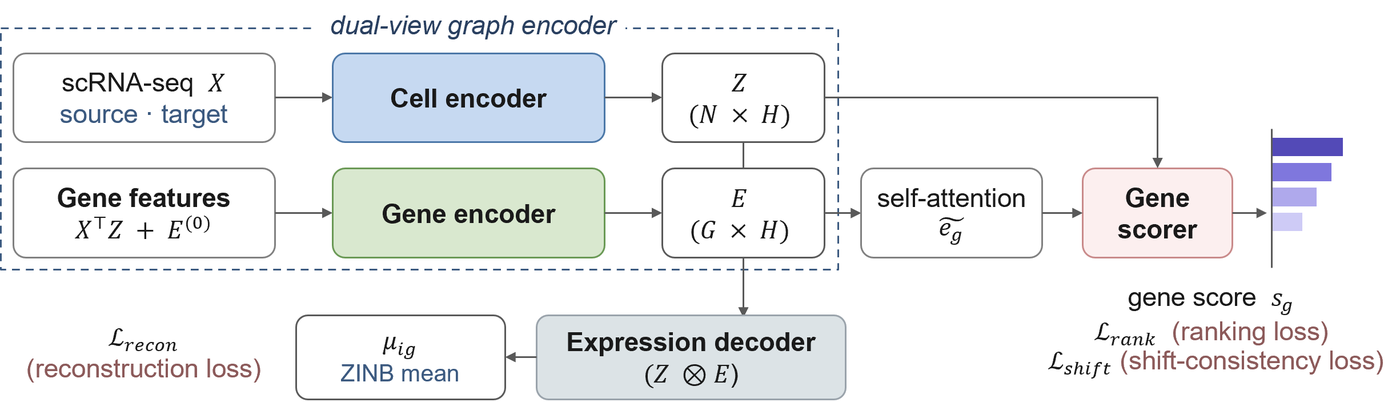
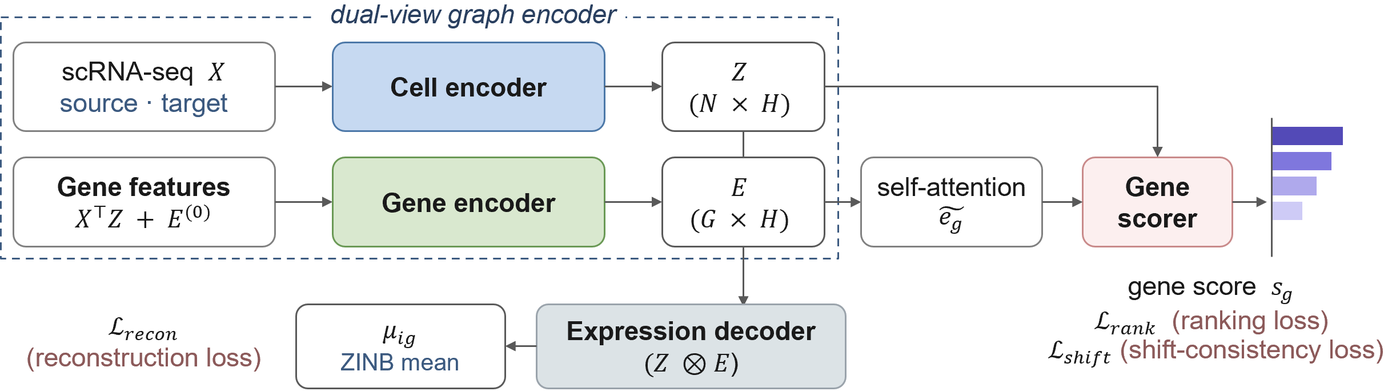
Add portrait, full paper titles, and trim thumbnail whitespace
- Replace the portrait placeholder with a 4:5 head-and-shoulders crop of
  the supplied photo. The source JPEG stays out of the repo.
- Thumbnails: trim each figure's own white border, then drop the fixed
  16/7 box so the card no longer letterboxes them. Cards now size to the
  figure, which is where most of the white was coming from.
- Entry and detail titles carry the full paper title. Titles run to two
  lines, so the link arrow moves from inline-flex to inline and the
  heading gets a snug line-height; the detail h1 drops from --t-4 to
  --t-3.
- TDEP: rewrite the summary in the paper's own terms (protein language
  model embeddings, graph attention over a co-expression network) and
  swap the chips for L1000 Connectivity Map / AUROC 0.873 unseen drug /
  Explainable AI.
- FateDriver: add the code and Zenodo links from the manuscript's data
  availability statement, and new chips.
- IC50 entry retitled to Sequence-Similarity-Guided Multi-Representation
  Ensemble for MAP3K5 IC50 Prediction, with two chips.
- Remove TDEM from Selected work. work/tdem.html is kept but is now
  unlinked.

diff --git a/index.html b/index.html
@@ -47,12 +47,8 @@
 
   <!-- ================= RAIL ================= -->
   <header class="rail">
-    <!-- Replace with:
-         <img class="portrait" src="assets/img/portrait.jpg"
-              alt="Jieun Sung" width="380" height="475"> -->
-    <div class="portrait">
-      <span class="portrait__placeholder">photo</span>
-    </div>
+    <img class="portrait" src="assets/img/portrait.jpg"
+         alt="Jieun Sung" width="760" height="950">
 
     <div>
       <h1 class="rail__name">Jieun Sung</h1>
@@ -112,11 +108,11 @@
           <span class="entry__year">2026</span>
         </div>
         <div class="entry__body">
-          <h3 class="entry__title"><a href="work/scdebart.html" target="_blank" rel="noopener">scDEBART</a></h3>
+          <h3 class="entry__title"><a href="work/scdebart.html" target="_blank" rel="noopener">scDEBART: Predicting in silico Single-Cell Perturbation Responses via Large-Scale Differential Expression Learning</a></h3>
           <a class="entry__thumb" href="work/scdebart.html" target="_blank" rel="noopener"
              aria-label="scDEBART — open the full write-up">
             <img src="assets/img/thumbs/scdebart.png" alt="scDEBART architecture and benchmark results"
-                 width="1400" height="593" loading="lazy">
+                 width="1386" height="533" loading="lazy">
           </a>
           <p class="entry__lede">
             A foundation model for single-cell perturbation response, pretrained
@@ -146,20 +142,22 @@
           <span class="entry__year">2026</span>
         </div>
         <div class="entry__body">
-          <h3 class="entry__title"><a href="work/tdep.html" target="_blank" rel="noopener">TDEP</a></h3>
+          <h3 class="entry__title"><a href="work/tdep.html" target="_blank" rel="noopener">TDEP: Predicting Target Perturbation Response from Drug-Induced Transcriptomes</a></h3>
           <a class="entry__thumb" href="work/tdep.html" target="_blank" rel="noopener"
              aria-label="TDEP — open the full write-up">
             <img src="assets/img/thumbs/tdep.png" alt="TDEP model architecture and evaluation"
-                 width="1400" height="535" loading="lazy">
+                 width="1375" height="534" loading="lazy">
           </a>
           <p class="entry__lede">
-            Predicts the transcriptome-wide response to inhibiting a target, so a
-            drug&ndash;target call arrives with a gene-level account of why.
+            A deep neural network that predicts transcriptome-wide responses to
+            target inhibition, combining pretrained protein language model
+            embeddings with graph attention propagation over a co-expression
+            network under drug&ndash;target interaction supervision.
           </p>
           <ul class="metrics">
+            <li>L1000 Connectivity Map</li>
             <li>AUROC 0.873 unseen drug</li>
-            <li>DrugBAN 0.848 / ssGCN 0.593</li>
-            <li>10,086 genes per profile</li>
+            <li>Explainable AI</li>
           </ul>
           <ul class="linkrow">
             <li><a href="assets/posters/2025-10-ksbi-tdep.pdf">Poster</a></li>
@@ -175,53 +173,27 @@
           <span class="entry__year">2026</span>
         </div>
         <div class="entry__body">
-          <h3 class="entry__title"><a href="work/fatedriver.html" target="_blank" rel="noopener">FateDriver</a></h3>
+          <h3 class="entry__title"><a href="work/fatedriver.html" target="_blank" rel="noopener">FateDriver: A Dual-View Graph Neural Network for Predicting Driver Genes in Cellular Reprogramming</a></h3>
           <a class="entry__thumb" href="work/fatedriver.html" target="_blank" rel="noopener"
              aria-label="FateDriver — open the full write-up">
             <img src="assets/img/thumbs/fatedriver.png" alt="FateDriver dual-view graph encoder"
-                 width="1400" height="402" loading="lazy">
+                 width="1387" height="391" loading="lazy">
           </a>
           <p class="entry__lede">
             Learns from the reprogramming factors a protocol delivers, then
             returns the endogenous genes that align the same way.
           </p>
           <ul class="metrics">
-            <li>Curated-regulator AUROC 0.93</li>
-            <li>3 datasets / 2 conversion systems</li>
-            <li>Ranks all 3,000 genes</li>
+            <li>Dual-view graph encoder</li>
+            <li>Best recovery of enhancer/barrier</li>
+            <li>Transferability</li>
           </ul>
           <ul class="linkrow">
             <li><a href="assets/posters/2026-08-ksscr-fatedriver.pdf">Poster</a></li>
+            <li><a href="https://github.com/Jieun-Sung/FateDriver">Code</a></li>
+            <li><a href="https://doi.org/10.5281/zenodo.21771206">Archive (Zenodo)</a></li>
           </ul>
           <p class="entry__note">Co-first author.</p>
-        </div>
-      </article>
-
-      <article class="entry">
-        <div class="entry__meta">
-          <span class="status status--prep">In preparation</span>
-          <span class="entry__year">2026</span>
-        </div>
-        <div class="entry__body">
-          <h3 class="entry__title"><a href="work/tdem.html" target="_blank" rel="noopener">TDEM</a></h3>
-          <a class="entry__thumb" href="work/tdem.html" target="_blank" rel="noopener"
-             aria-label="TDEM — open the full write-up">
-            <img src="assets/img/thumbs/tdem.png" alt="TDEM target-by-gene effect matrix"
-                 width="1400" height="807" loading="lazy">
-          </a>
-          <p class="entry__lede">
-            Tests whether drug-induced transcriptomes really decompose into
-            target-level effects &mdash; an assumption the field relies on and
-            rarely checks.
-          </p>
-          <ul class="metrics">
-            <li>902 compounds / 836 targets</li>
-            <li>Target recovery AUROC 0.852</li>
-            <li>0.591 on inferred expression</li>
-          </ul>
-          <ul class="linkrow">
-            <li><a href="assets/posters/2024-01-kogo-tdem.pdf">Poster</a></li>
-          </ul>
         </div>
       </article>
 
@@ -231,21 +203,20 @@
           <span class="entry__year">2025</span>
         </div>
         <div class="entry__body">
-          <h3 class="entry__title"><a href="work/ic50-ensemble.html" target="_blank" rel="noopener">BLAST-weighted IC50 ensemble</a></h3>
+          <h3 class="entry__title"><a href="work/ic50-ensemble.html" target="_blank" rel="noopener">Sequence-Similarity&ndash;Guided Multi-Representation Ensemble for MAP3K5 IC50 Prediction</a></h3>
           <a class="entry__thumb" href="work/ic50-ensemble.html" target="_blank" rel="noopener"
-             aria-label="BLAST-weighted IC50 ensemble — open the full write-up">
+             aria-label="Sequence-similarity-guided IC50 ensemble — open the full write-up">
             <img src="assets/img/thumbs/ic50-ensemble.png" alt="Uncertainty-aware BLAST-weighted ensemble for IC50 prediction"
-                 width="1400" height="680" loading="lazy">
+                 width="1345" height="663" loading="lazy">
           </a>
           <p class="entry__lede">
-            MAP3K5 inhibitor potency predicted from structure alone, by borrowing
-            labelled data from homologous kinases and weighting it by sequence
-            similarity.
+            MAP3K5 inhibitor potency predicted from structure alone, by
+            borrowing labelled data from homologous kinases and weighting it by
+            sequence similarity.
           </p>
           <ul class="metrics">
             <li>3rd of 1,137 participants</li>
-            <li>381,152 IC50 measurements</li>
-            <li>Private score 0.648</li>
+            <li>Uncertainty-based ensemble learning</li>
           </ul>
           <ul class="linkrow">
             <li><a href="assets/posters/2025-10-dacon-ic50.pdf">Poster</a></li>

diff --git a/assets/css/style.css b/assets/css/style.css
@@ -158,17 +158,11 @@ a:hover { color: var(--c-green-deep); text-decoration: underline; }
 .portrait {
   aspect-ratio: 4 / 5;
   width: 9.5rem;
+  height: auto;
   border-radius: var(--r-lg);
   background: var(--c-green-wash);
   border: var(--bw) solid var(--c-rule);
   object-fit: cover;
-  display: grid;
-  place-items: center;
-}
-.portrait__placeholder {
-  font-family: var(--f-mono);
-  font-size: var(--t--1);
-  color: var(--c-muted);
 }
 
 .rail__name {
@@ -344,19 +338,18 @@ a:hover { color: var(--c-green-deep); text-decoration: underline; }
   font-family: var(--f-display);
   font-size: var(--t-2);
   font-weight: 600;
+  line-height: var(--lh-snug);
   letter-spacing: var(--ls-tight);
+  max-width: 42ch;
 }
 /* The title doubles as the link to the entry's detail page. Ink by default so
    the heading still reads as a heading, green on hover to show it is a link. */
-.entry__title a {
-  color: inherit;
-  display: inline-flex;
-  align-items: baseline;
-  gap: var(--sp-2);
-}
+/* Inline, not inline-flex: titles now run to two lines and a flex arrow would
+   break onto a line of its own. */
+.entry__title a { color: inherit; }
 .entry__title a::after {
-  content: "\2197";
-  font-size: 0.6em;
+  content: "\00A0\2197";
+  font-size: 0.7em;
   color: var(--c-muted);
   transition: color var(--dur-fast) var(--ease);
 }
@@ -378,11 +371,13 @@ a:hover { color: var(--c-green-deep); text-decoration: underline; }
   overflow: hidden;
   transition: border-color var(--dur-fast) var(--ease);
 }
+/* No fixed box and no object-fit: the figure keeps its own aspect ratio, so
+   the card adds no letterboxing and the only white left is the figure's own. */
 .entry__thumb img {
+  display: block;
   width: 100%;
-  aspect-ratio: 16 / 7;
-  object-fit: contain;
-  padding: var(--sp-3);
+  height: auto;
+  padding: var(--sp-2);
 }
 .entry__thumb::after {
   content: "Read the details \2197";
@@ -568,7 +563,7 @@ a:hover { color: var(--c-green-deep); text-decoration: underline; }
 
 .detail__title {
   font-family: var(--f-display);
-  font-size: var(--t-4);
+  font-size: var(--t-3);
   font-weight: 600;
   line-height: var(--lh-tight);
   letter-spacing: var(--ls-tight);
@@ -592,12 +587,12 @@ a:hover { color: var(--c-green-deep); text-decoration: underline; }
    detail page so the reader lands on what they clicked. */
 .figure--hero {
   margin-top: var(--sp-6);
-  padding: var(--sp-4);
+  padding: var(--sp-2);
   border: var(--bw) solid var(--c-rule);
   border-radius: var(--r-md);
   background: var(--c-surface);
 }
-.figure--hero img { width: 100%; height: auto; }
+.figure--hero img { display: block; width: 100%; height: auto; }
 
 /* Body bullets. `.metrics` and `.linkrow` are chips and links; this is prose
    that happens to be enumerated, so it keeps the body measure and rhythm. */

diff --git a/work/ic50-ensemble.html b/work/ic50-ensemble.html
@@ -3,7 +3,7 @@
 <head>
 <meta charset="utf-8">
 <meta name="viewport" content="width=device-width, initial-scale=1">
-<title>BLAST-weighted IC50 ensemble — Jieun Sung</title>
+<title>IC50 ensemble — Jieun Sung</title>
 <meta name="description" content="An uncertainty-aware, BLAST-weighted ensemble over three molecular representations for MAP3K5 inhibitor IC50 prediction.">
 <meta name="author" content="Jieun Sung">
 <link rel="canonical" href="https://jieun-sung.github.io/work/ic50-ensemble.html">
@@ -41,13 +41,12 @@
         <span class="status status--award">Third place</span>
         <span class="entry__year">2025</span>
       </div>
-      <h1 class="detail__title">BLAST-weighted IC50 ensemble</h1>
+      <h1 class="detail__title">Sequence-Similarity&ndash;Guided Multi-Representation Ensemble for MAP3K5 IC50 Prediction</h1>
       <p class="detail__lede">Predicting MAP3K5 (ASK1) inhibitor potency from molecular structure, where the target-specific labelled data is far too small to train on. The approach borrows labelled compounds from homologous kinases and weights how much to trust them by sequence similarity.</p>
       <p class="detail__authors">3rd AI Drug Discovery Competition &middot; Korea Pharmaceutical and Bio-Pharma Association &middot; third place of 1,137 participants</p>
       <ul class="metrics">
         <li>3rd of 1,137 participants</li>
-        <li>381,152 IC50 measurements</li>
-        <li>Private score 0.648</li>
+        <li>Uncertainty-based ensemble learning</li>
       </ul>
       <ul class="linkrow">
         <li><a href="../assets/posters/2025-10-dacon-ic50.pdf">Poster</a></li>
@@ -55,7 +54,7 @@
     </header>
 
     <figure class="figure figure--hero">
-      <img src="../assets/img/thumbs/ic50-ensemble.png" alt="Uncertainty-aware BLAST-weighted multi-representation ensemble" width="1400" height="680">
+      <img src="../assets/img/thumbs/ic50-ensemble.png" alt="Uncertainty-aware BLAST-weighted multi-representation ensemble" width="1345" height="663">
       <figcaption>Three molecular representations each predict pIC50 and its uncertainty; ensemble weights combine that uncertainty with PSI-BLAST sequence similarity to the target.</figcaption>
     </figure>
 

diff --git a/work/tdep.html b/work/tdep.html
@@ -44,13 +44,13 @@
         <span class="status status--review">Under review</span>
         <span class="entry__year">2026</span>
       </div>
-      <h1 class="detail__title">TDEP</h1>
-      <p class="detail__lede">Target-perturbed Differential Expression Profile. Most drug&ndash;target interaction models return a binary yes or no. TDEP returns the transcriptome-wide response expected from inhibiting the target, so the interaction call arrives together with a gene-level account of what engaging that target would do.</p>
+      <h1 class="detail__title">TDEP: Predicting Target Perturbation Response from Drug-Induced Transcriptomes</h1>
+      <p class="detail__lede">Target-perturbed Differential Expression Profile. A deep neural network that predicts transcriptome-wide responses to target inhibition by combining pretrained protein language model embeddings with graph attention propagation over a co-expression network, trained on LINCS Connectivity Map drug-induced transcriptomes under drug&ndash;target interaction supervision.</p>
       <p class="detail__authors">Jieun Sung, Sookyung Kim, Wankyu Kim &middot; under review</p>
       <ul class="metrics">
+        <li>L1000 Connectivity Map</li>
         <li>AUROC 0.873 unseen drug</li>
-        <li>10,086 genes per profile</li>
-        <li>938,089 curated interactions</li>
+        <li>Explainable AI</li>
       </ul>
       <ul class="linkrow">
         <li><a href="../assets/posters/2025-10-ksbi-tdep.pdf">Poster</a></li>
@@ -60,7 +60,7 @@
     </header>
 
     <figure class="figure figure--hero">
-      <img src="../assets/img/thumbs/tdep.png" alt="TDEP architecture: protein language model, two perturbed profile generator modules, and scoring against Connectivity Map profiles" width="1400" height="535">
+      <img src="../assets/img/thumbs/tdep.png" alt="TDEP architecture: protein language model, two perturbed profile generator modules, and scoring against Connectivity Map profiles" width="1375" height="534">
       <figcaption>TDEP sits between structure-based and omics-based DTI methods: sequence embeddings for the target, Connectivity Map profiles for the ligand, and a predicted perturbation profile as output.</figcaption>
     </figure>
 

diff --git a/work/fatedriver.html b/work/fatedriver.html
@@ -43,21 +43,23 @@
         <span class="status status--prep">In preparation</span>
         <span class="entry__year">2026</span>
       </div>
-      <h1 class="detail__title">FateDriver</h1>
+      <h1 class="detail__title">FateDriver: A Dual-View Graph Neural Network for Predicting Driver Genes in Cellular Reprogramming</h1>
       <p class="detail__lede">Reprogramming protocols deliver a handful of transcription factors, but the endogenous regulators working alongside them are only partly known. FateDriver takes the delivered factors as its positive labels, learns how they align with the source&rarr;target direction, and returns the unlabeled genes that align the same way.</p>
       <p class="detail__authors">Jieun Sung*, Kyuwon Son*, Hyuk-Jin Cha, Wankyu Kim, Haeseung Lee &middot; *equal contribution &middot; in preparation</p>
       <ul class="metrics">
-        <li>Curated-regulator AUROC 0.93</li>
-        <li>Delivered factors ranked 2.0&ndash;5.0 of 3,000</li>
-        <li>3 datasets / 2 conversion systems</li>
+        <li>Dual-view graph encoder</li>
+        <li>Best recovery of enhancer/barrier</li>
+        <li>Transferability</li>
       </ul>
       <ul class="linkrow">
         <li><a href="../assets/posters/2026-08-ksscr-fatedriver.pdf">Poster</a></li>
+        <li><a href="https://github.com/Jieun-Sung/FateDriver">Code</a></li>
+        <li><a href="https://doi.org/10.5281/zenodo.21771206">Archive (Zenodo)</a></li>
       </ul>
     </header>
 
     <figure class="figure figure--hero">
-      <img src="../assets/img/thumbs/fatedriver.png" alt="FateDriver dual-view graph encoder over cells and genes" width="1400" height="402">
+      <img src="../assets/img/thumbs/fatedriver.png" alt="FateDriver dual-view graph encoder over cells and genes" width="1387" height="391">
       <figcaption>A dual-view graph encoder places cells and genes in one shared space, so a gene can be scored against the direction of a transition between cell states.</figcaption>
     </figure>
 

diff --git a/work/tdem.html b/work/tdem.html
@@ -42,13 +42,12 @@
         <span class="status status--prep">In preparation</span>
         <span class="entry__year">2026</span>
       </div>
-      <h1 class="detail__title">TDEM</h1>
+      <h1 class="detail__title">Drug-induced transcriptomes decompose additively into target-level effects, but only when expression is measured rather than inferred</h1>
       <p class="detail__lede">A drug engages several proteins at once, so the profile it produces is a superposition. Almost every downstream use of drug-perturbation atlases assumes that superposition is additive and can be decomposed back into target-level effects. This work tests the assumption directly rather than relying on it.</p>
       <p class="detail__authors">Jieun Sung, Wankyu Kim &middot; in preparation</p>
       <ul class="metrics">
-        <li>902 compounds / 836 targets</li>
-        <li>Target recovery AUROC 0.852</li>
-        <li>0.591 on inferred expression</li>
+        <li>Polypharmacology</li>
+        <li>Explainable AI</li>
       </ul>
       <ul class="linkrow">
         <li><a href="../assets/posters/2024-01-kogo-tdem.pdf">Poster</a></li>
@@ -56,7 +55,7 @@
     </header>
 
     <figure class="figure figure--hero">
-      <img src="../assets/img/thumbs/tdem.png" alt="TDEM target-by-gene effect matrix and validation" width="1400" height="807">
+      <img src="../assets/img/thumbs/tdem.png" alt="TDEM target-by-gene effect matrix and validation" width="1389" height="807">
       <figcaption>A target-by-gene effect matrix fitted so that summing a compound’s annotated target rows reproduces its observed response.</figcaption>
     </figure>
 

diff --git a/work/scdebart.html b/work/scdebart.html
@@ -44,7 +44,7 @@
         <span class="status status--published">ICML 2026</span>
         <span class="entry__year">2026</span>
       </div>
-      <h1 class="detail__title">scDEBART</h1>
+      <h1 class="detail__title">scDEBART: Predicting in silico Single-Cell Perturbation Responses via Large-Scale Differential Expression Learning</h1>
       <p class="detail__lede">A foundation model for single-cell perturbation response. It moves the pretraining target from absolute expression to the log fold-change a perturbation produces, conditioned on basal expression &mdash; so the model learns how genes co-regulate <em>under change</em> rather than how they co-vary at rest.</p>
       <p class="detail__authors">Jieun Sung, Wankyu Kim &middot; ICML 2026, COEX, Seoul</p>
       <ul class="metrics">
@@ -60,7 +60,7 @@
     </header>
 
     <figure class="figure figure--hero">
-      <img src="../assets/img/thumbs/scdebart.png" alt="scDEBART corpus construction, architecture and benchmark results" width="1400" height="593">
+      <img src="../assets/img/thumbs/scdebart.png" alt="scDEBART corpus construction, architecture and benchmark results" width="1386" height="533">
       <figcaption>Corpus construction, architecture, and the three evaluations: perturbation response prediction, reverse perturbation identification, and genetic&rarr;drug transfer.</figcaption>
     </figure>
 
